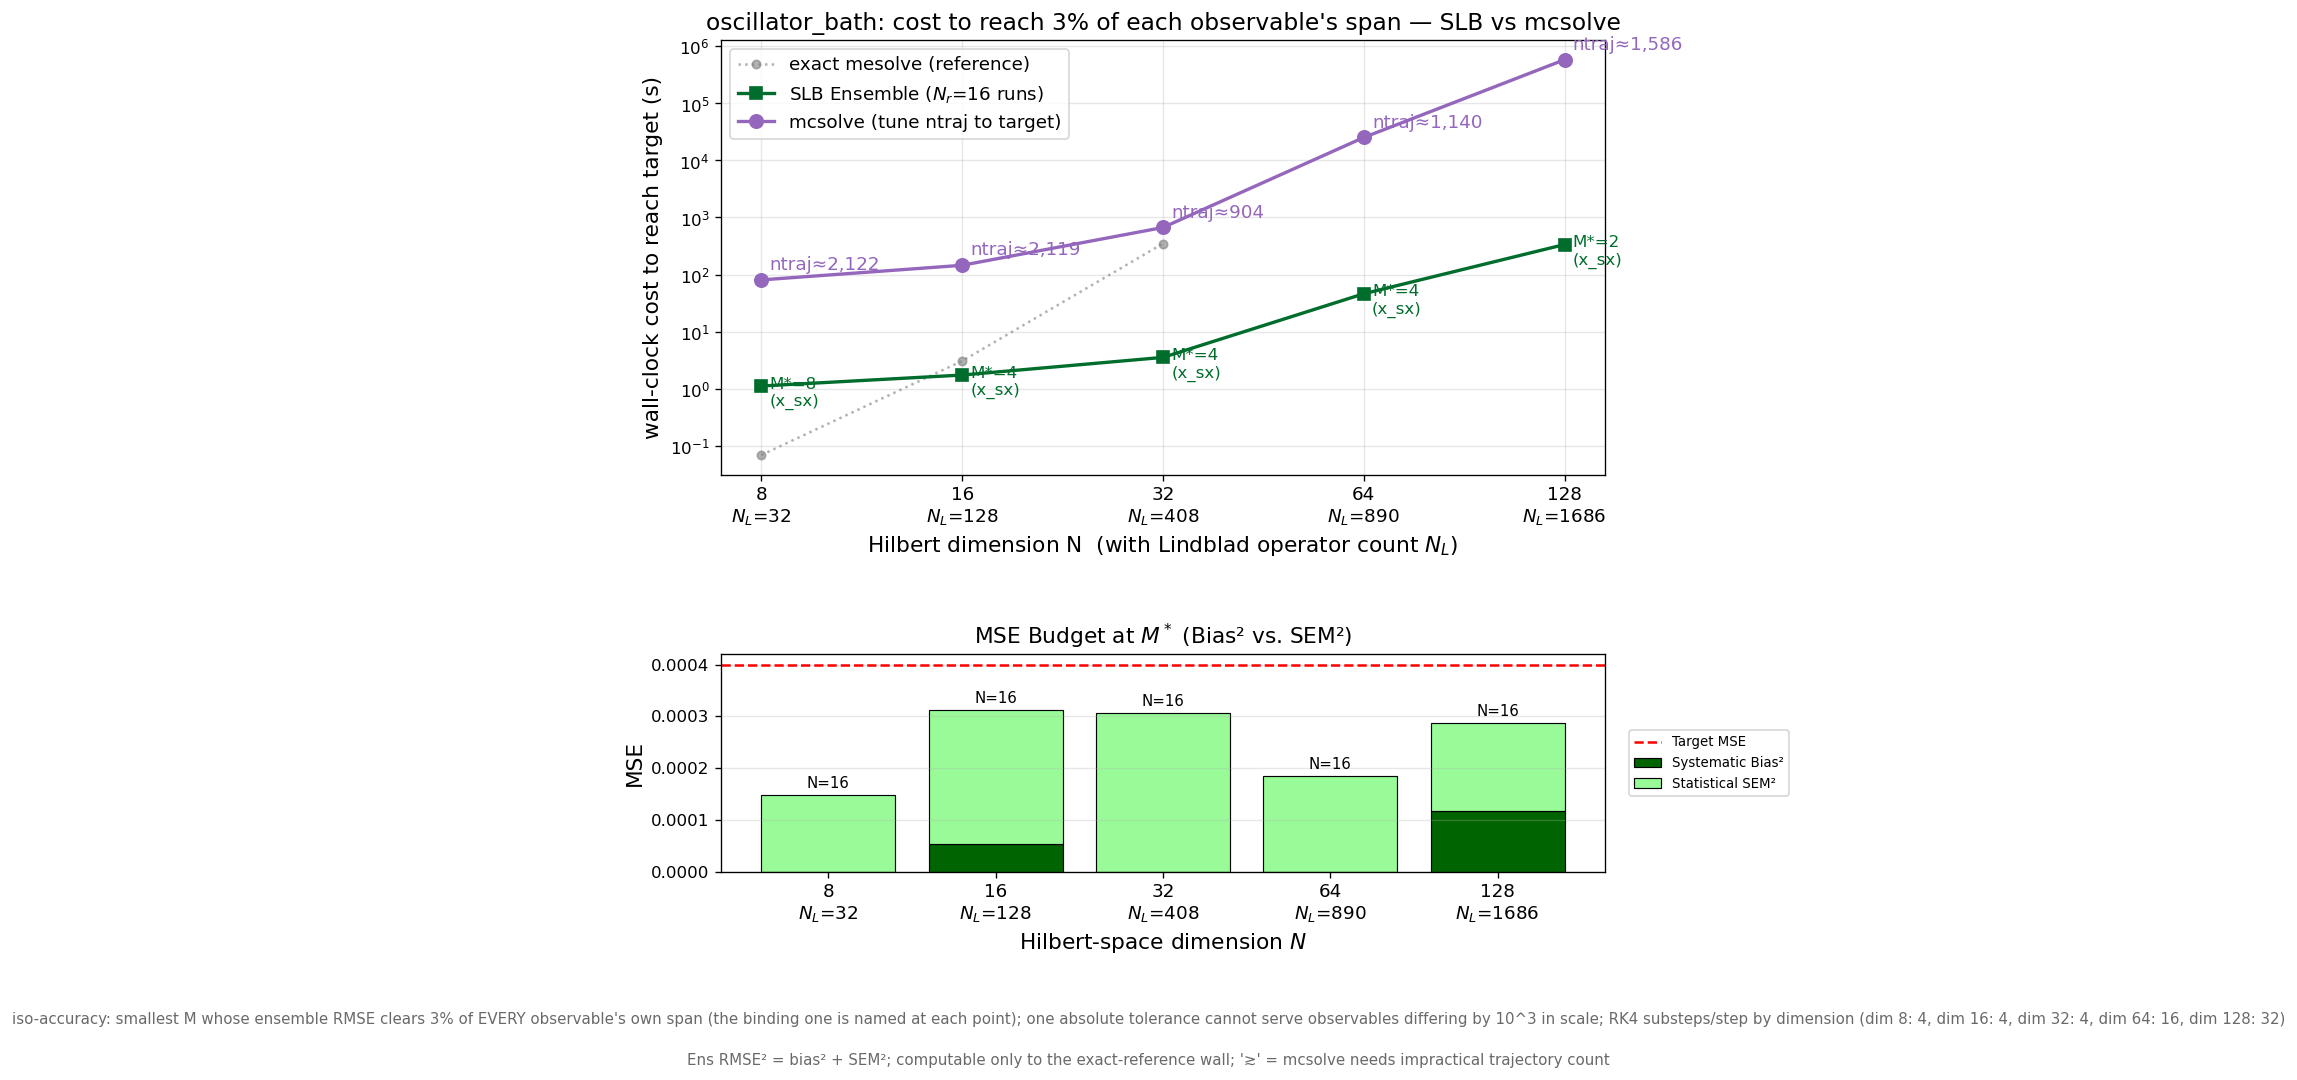
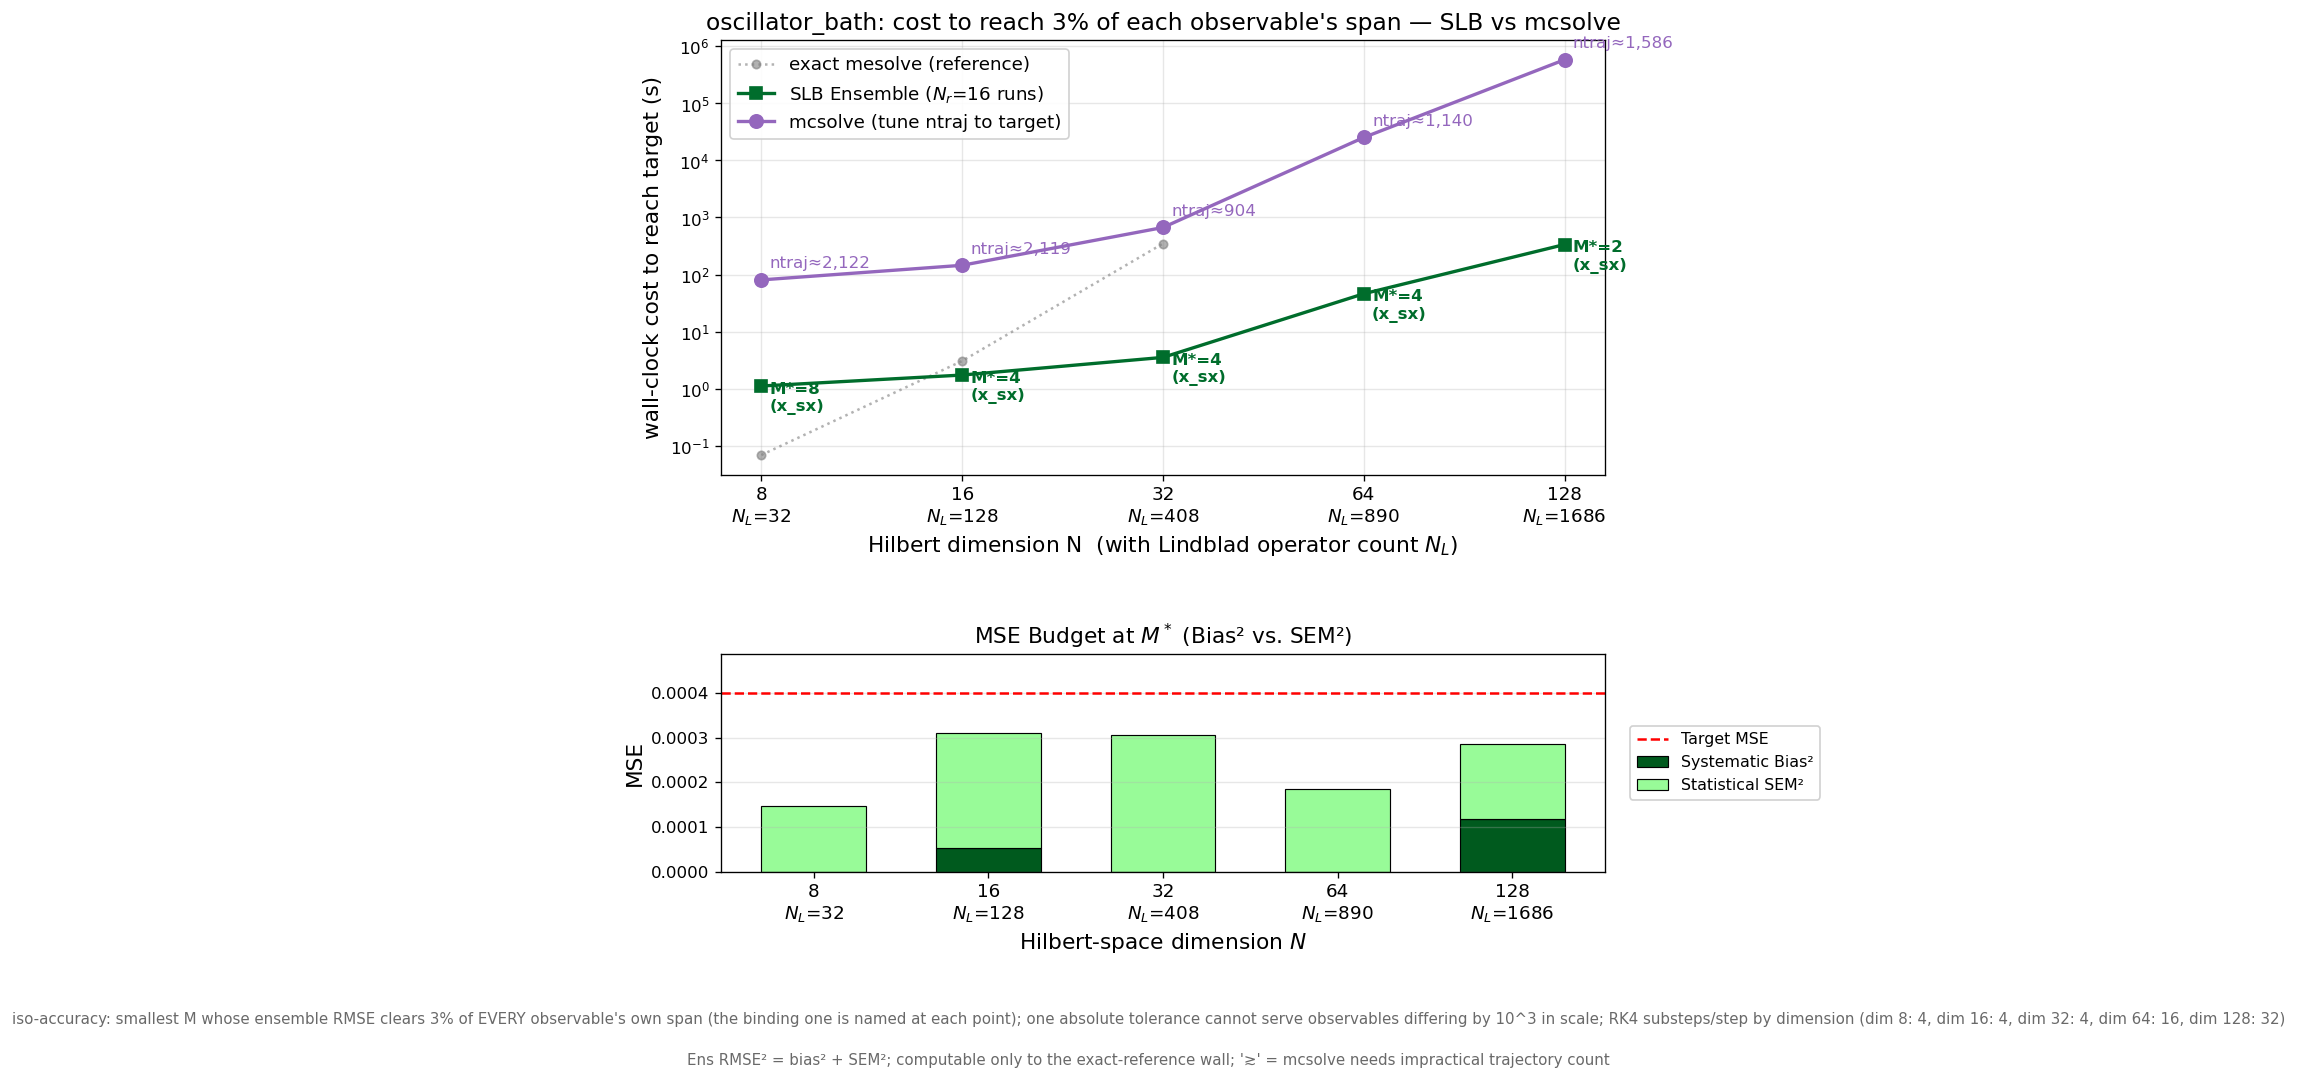
Result 4 plots: refine cosmetics across all 3 systems with uniform dark green and clean headroom

diff --git a/benchmarks/plot_isocost_vs_dim.py b/benchmarks/plot_isocost_vs_dim.py
@@ -269,13 +269,13 @@ def figure(name, out, target, substeps_text, n_runs_list, est_type):
         # Name the observable M* satisfies LAST. Without it the reader sees a
         # larger M* than the energy-only figures reported, with no reason why.
         tag = f"M*={int(m)}" + (f"\n({bind})" if bind and bind != "energy" else "")
-        ax_main.annotate(tag, (x, y), xytext=(5, -12), textcoords="offset points",
-                         fontsize=10, color=greens.get(n_max, "tab:green"))
+        ax_main.annotate(tag, (x, y), xytext=(5, -15), textcoords="offset points",
+                         fontsize=10, color=greens.get(n_max, "#006d2c"), fontweight="semibold")
         
     for x, y, nt, ok in zip(d, out["mc_cost"], out["mc_star"], out["mc_ok"]):
         label = f"ntraj≈{int(round(nt)):,}" if (ok and np.isfinite(nt)) else f"ntraj≳{NTRAJ_EXTRAP_MAX:,}"
-        ax_main.annotate(label, (x, y), xytext=(5, 6), textcoords="offset points", 
-                         fontsize=11, color="tab:purple")
+        ax_main.annotate(label, (x, y), xytext=(5, 7), textcoords="offset points", 
+                         fontsize=10, color="tab:purple")
 
     ax_main.set_ylabel("wall-clock cost to reach target (s)", fontsize=13)
     ax_main.set_xlabel("Hilbert dimension N  (with Lindblad operator count $N_L$)",
@@ -288,25 +288,26 @@ def figure(name, out, target, substeps_text, n_runs_list, est_type):
     ax_main.set_title(
         f"{name}: cost to reach {TARGET_REL:.0%} of each observable's span"
         f" — SLB vs mcsolve", fontsize=14)
-    ax_main.legend(loc="upper left", fontsize=11)
+    ax_main.legend(loc="upper left", fontsize=11, framealpha=0.9)
     ax_main.grid(True, which="both", alpha=0.3)
 
 
     # --- BOTTOM PANEL: Error Budget Bar Chart ---
-    width = 0.8 / len(n_runs_list) if len(n_runs_list) > 0 else 0.4
+    width = 0.6 / len(n_runs_list) if len(n_runs_list) > 0 else 0.5
     offsets = np.linspace(-width*(len(n_runs_list)-1)/2, width*(len(n_runs_list)-1)/2, len(n_runs_list)) if len(n_runs_list) > 1 else [0]
     
-    color_bias = '#006400' 
+    color_bias = '#005a1e' 
     color_noise  = '#98FB98' 
     x_positions = np.arange(len(d))
     noise_str = "SEM²" if est_type == "ensemble" else "Std²"
 
+    all_bar_heights = []
     for idx, n in enumerate(n_runs_list):
         bias_sq_vals = out["slb"][n]["bias_sq"]
         noise_sq_vals  = out["slb"][n]["noise_sq"]
         
-        lbl_b = 'Systematic Bias²' if x_positions[0]==0 and idx==0 else ""
-        lbl_s = f'Statistical {noise_str}' if x_positions[0]==0 and idx==0 else ""
+        lbl_b = 'Systematic Bias²' if idx==0 else ""
+        lbl_s = f'Statistical {noise_str}' if idx==0 else ""
         
         ax_bar.bar(x_positions + offsets[idx], bias_sq_vals, width, 
                    color=color_bias, edgecolor='black', linewidth=0.7, label=lbl_b)
@@ -315,9 +316,11 @@ def figure(name, out, target, substeps_text, n_runs_list, est_type):
         
         for i, (bias, noise) in enumerate(zip(bias_sq_vals, noise_sq_vals)):
             total_height = bias + noise
-            y_offset = (target**2) * 0.02
-            ax_bar.text(x_positions[i] + offsets[idx], total_height + y_offset, f"N={n}", 
-                        ha='center', va='bottom', fontsize=9, color='black')
+            all_bar_heights.append(total_height)
+            if len(n_runs_list) > 1:
+                y_offset = (target**2) * 0.02
+                ax_bar.text(x_positions[i] + offsets[idx], total_height + y_offset, f"$N_r$={n}", 
+                            ha='center', va='bottom', fontsize=8, color='black')
 
     ax_bar.set_xticks(x_positions)
     ax_bar.set_xticklabels([f"{int(dd)}\n" + rf"$N_L$={int(nl)}"
@@ -329,7 +332,11 @@ def figure(name, out, target, substeps_text, n_runs_list, est_type):
     
     target_mse = target**2
     ax_bar.axhline(target_mse, color='red', linestyle='--', linewidth=1.5, label='Target MSE')
-    ax_bar.legend(fontsize=8, loc='center left', bbox_to_anchor=(1.02, 0.5))
+    
+    max_h = max(max(all_bar_heights, default=0), target_mse)
+    ax_bar.set_ylim(0, max_h * 1.22)
+    
+    ax_bar.legend(fontsize=9.5, loc='center left', bbox_to_anchor=(1.02, 0.5), framealpha=0.9)
     
     # Add explicit math string to footer
     footer_math = "Ens RMSE\u00b2 = bias\u00b2 + SEM\u00b2" if est_type == "ensemble" else "Single RMSE\u00b2 = bias\u00b2 + Std\u00b2"
